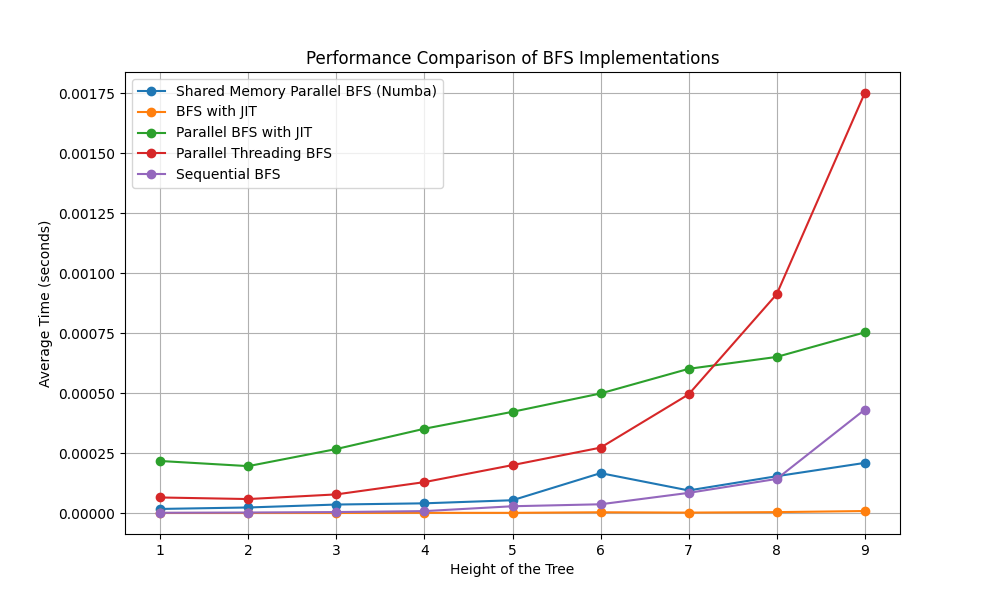
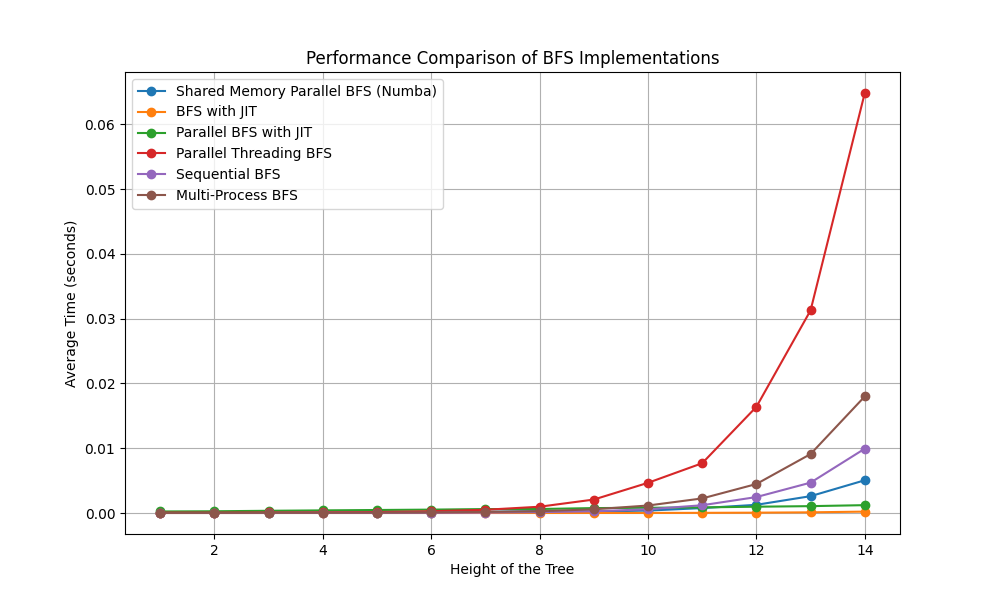
Update README for usage clarity; remove unused image files; fix mpi.py path in comparison script

diff --git a/comparison.py b/comparison.py
@@ -92,7 +92,7 @@ def data_bringer(r, iterations, h_max, p):
 
         
         print(f"Running Multi-Process BFS for tree height {i}...")
-        val = subprocess.check_output(["mpirun", "-np", str(p), "python3", "mpi.py", "--r", str(r), "--h", str(i), "--runs", str(iterations)]).decode('utf-8').strip()
+        val = subprocess.check_output(["mpirun", "-np", str(p), "python3", "Part_C/mpi.py", "--r", str(r), "--h", str(i), "--runs", str(iterations)]).decode('utf-8').strip()
         multi_process_results.append((i, float(val)))
     
     return {
@@ -136,6 +136,6 @@ if __name__ == "__main__":
     h_max = 10
     p = 4 # number of processes for multi-process BFS
 
-    main(r, iterations, h_max)
+    main(r, iterations, h_max, p)
 
     

diff --git a/README.md b/README.md
@@ -4,11 +4,14 @@ Hyg med det!
 
 # USAGE
 
-USE the main.py
+
+USE: main.py
 It runs a comparison on the different algorithms, of both part A, B and C. 
 it compares both sequential, different approaches of shared memory paralleilism, and multi process distributed memeory approach.
 
 Just download the dependencies found in: requirements.txt
+command: pip install -r requirements.txt
+
 And fill in the variables of main.py
 r:              spreading factor of balanced tree
 iterations:     The number of iterations, that it will average the answer over, done for all tree heights
